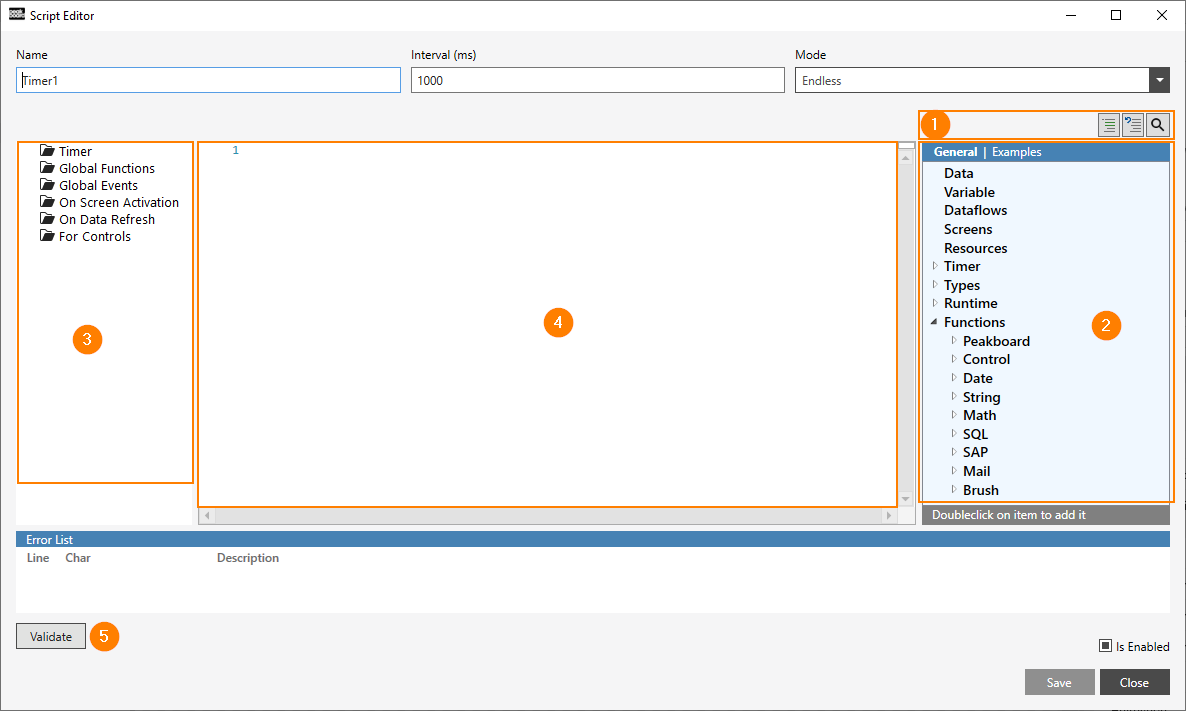
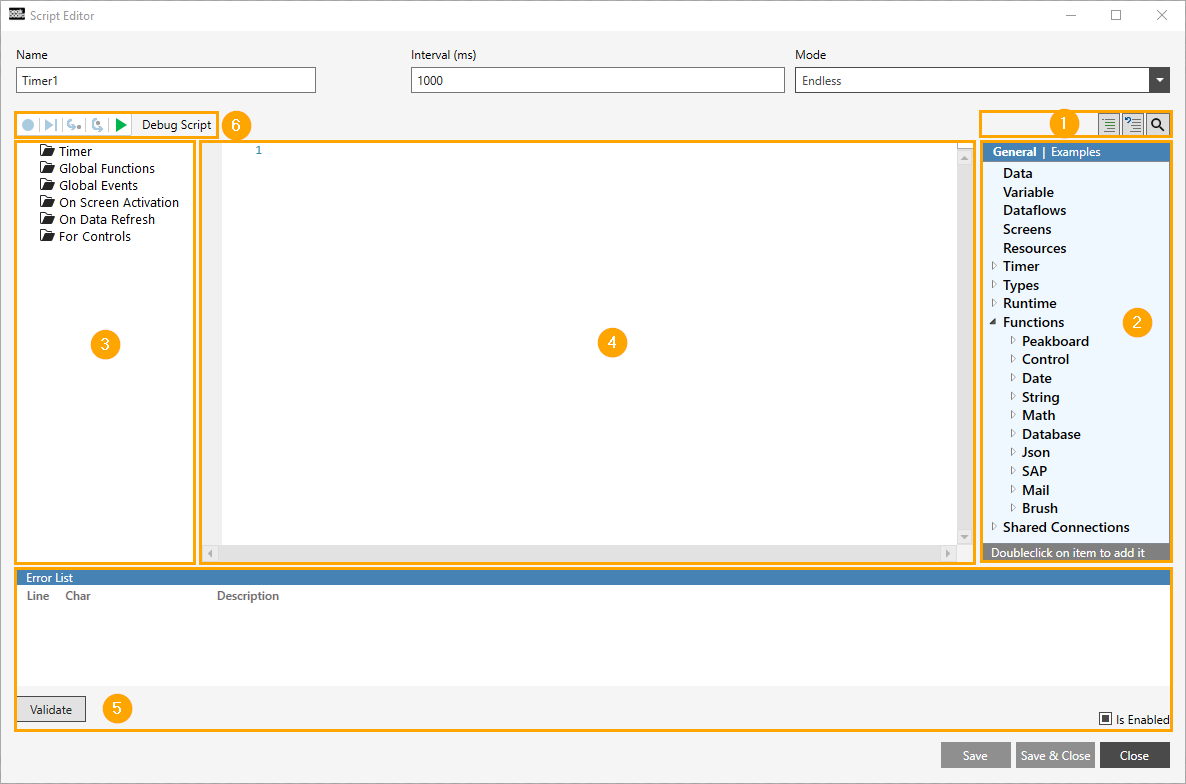
reworked

diff --git a/content/_scripting/de-script-editor.md b/content/_scripting/de-script-editor.md
@@ -9,22 +9,20 @@ ref: scr-101
 redirect_from:
 ---
 
-Um komplexe [Lua-Skripte](/scripting/de-script-engine.html) zu erstellen, ist ein Editor notwendig. Der Designer liefert hierzu einen eigenen Skript-Editor. 
-
-Nachfolgende Abbildung illustriert diesen Editor am Beispiel eines Timer-Skripts.
-
-Der Aufbau ist hierbei für die Skripte [Timer](/scripting/de-script-types.html), [Globale Funktion](/scripting/de-script-types.html), [Globale Events](/scripting/de-script-types.html),[Bei Bildschirmaktivierung](/scripting/de-script-types.html), [Bei Datenaktualisierung](/scripting/de-script-types.html) oder [Für Controls](/scripting/de-script-types.html) nahezu identisch.
+Für komplexe [Lua-Skripte](/scripting/de-script-engine.html) liefert der Peakboard Designer einen eigenen Skript-Editor. 
+In der nachfolgenden Abbildung siehst du am Beispiel eines Timer-Skripts, wie der Skript-Editor aussieht, allerdings ist der Aufbau für alle [Peakboard Skript-Typen](/scripting/de-script-types.html) nahezu identisch. 
 
 ![Image01](/assets/images/scripting/editor/Scripting01.png)
 
-Oberhalb des Skript-Baums auf der rechten Seite (1) findet sich jeweils ein Button zum Aus- sowie einer zum Kommentieren.
+Oberhalb des Skript-Baums (1) findest du jeweils einen Button zum [comment out / auskommentieren] sowie einen zum [uncomment / entkommentieren]. 
 
-Die Lupe symbolisiert als dritter Button die Suche bzw. die Suchen und Ersetzen-Funktion, welche auch über die Tastenkombination Strg+f aufgerufen werden kann.
+Über die Lupe oder über die Tastenkombination [Strg+F] gelangst du zu [find / suche] und [replace / ersetzen] 
 
-Der Skript-Baum (2) enthält neben den Elementen des Explorers die Elemente Timer, Types, Runtime sowie einige der am häufigsten verwendeten Funktionen. Eine detaillierte Übersicht findet sich [hier](/scripting/de-script-tree.html).
+Der [Skript-Baum](/scripting/de-script-tree.html) (2) enthält neben den zuvor im Peakboard Designer angelegten Elementen des Explorers ([Data], [Variable], [Dataflows], [Screens] und [Ressources]) auch [Timer], [Types], [Runtime] sowie einige der am häufigsten verwendeten Funktionen. 
+Zuletzt findest du hier auch deine zuvor angelegten und [geteilten Verbindungen (Shared Connections)](/misc/de-shared-connection.html).
 
-Der Baum auf der linken Seite (3) ermöglicht es durch die verschiedenen Skripte zu navigieren, ohne den Editor dabei verlassen zu müssen. Eine detaillierte Übersicht der jeweiligen Skripte findet sich [hier](/scripting/de-script-types.html).
+Mithilfe der Ordner links (3) navigierst du durch die [verschiedenen Skripte](/scripting/de-script-types.html), ohne den Editor dabei verlassen zu müssen.
 
-Im mittleren Bereich (4) erfolgt die Eingabe des Skriptes.
+Nachdem du das Skript in der Mitte des Skript-Editors eingegeben hast (4), kannst du über [Validate / Validieren] prüfen, ob es korrekt ist (5). 
 
-Mit Hilfe der Validierungsfunktion (5) kann das angelegte Skript auf seine Korrektheit geprüft werden.
+Sollte dein Skript nicht korrekt funktionieren, so kannst du es mit dem Debugger (6) debuggen.

diff --git a/content/_scripting/en-script-editor.md b/content/_scripting/en-script-editor.md
@@ -8,23 +8,21 @@ weight: 101
 ref: scr-101
 redirect_from:
 ---
-
-To create complex [Lua-Scripts](/scripting/en-script-engine.html) an editor is necessary. The Designer provides its own script editor for this purpose. 
-
-The following illustration illustrates this editor using the example of a timer script.
-
-The structure is for the scripts [Timer](/scripting/en-script-types.html), [Global Function](/scripting/en-script-types.html), [Global Events](/scripting/en-script-types.html),[On Screen Activation](/scripting/en-script-types.html), [On Data Update](/scripting/en-script-types.html) or [For Controls](/scripting/en-script-types.html).
+For complex [Lua scripts](/scripting/en-script-engine.html), the Peakboard Designer provides its own script editor. 
+In the following picture, you can see how the Peakboard Script Editor looks like, using a timer script as an example. 
+However, the structure is almost identical for [all Peakboard script types](/scripting/en-script-types.html). 
 
 ![Image01](/assets/images/scripting/editor/Scripting01.png)
 
-Above the script tree on the right side (1) there is a button for out and a button for commenting.
+Above the script tree on the right side (1) there is a button to [comment out] and a button for [uncommenting]. 
 
-The magnifying glass is the third button that symbolizes the Search, Search and Replace function, which can also be called using the key combination Ctrl+F.
+The magnifying glass leads you to the search, where you can [find] and [replace] elements. [Ctrl+F] also works. 
 
-The script tree (2) contains the elements Timer, Types, Runtime as well as some of the most frequently used functions. A detailed overview can be found [here](/scripting/en-script-tree.html).
+The [script tree](/scripting/en-script-tree.html) (2) contains the predefiened elements of the Peakboard Designer explorer (like, [Data], [Variable], [Dataflows], [Screens] and [Ressources]) as well as [timers], [types], [runtime] and some of the most frequently used functions.
+Last but not least you will find here your previously created and [shared connections](/misc/en-shared-connection.html).
 
-The tree on the left side (3) allows you to navigate through the different scripts without leaving the editor. A detailed overview of the scripts can be found [here](/scripting/en-script-types.html).
+Using the folders on the left (3) you can navigate through the [different scripts](/scripting/en-script-types.html) without leaving the editor.  
 
-In the middle area (4) you can enter the script.
+After you have entered the script in the middle of the script editor (4), you can check if it is correct via [Validate] (5). 
 
-With the help of the validation function (5) the created script can be checked for its correctness.
+If your script does not work correctly, you can debug it with the debugger (6).
